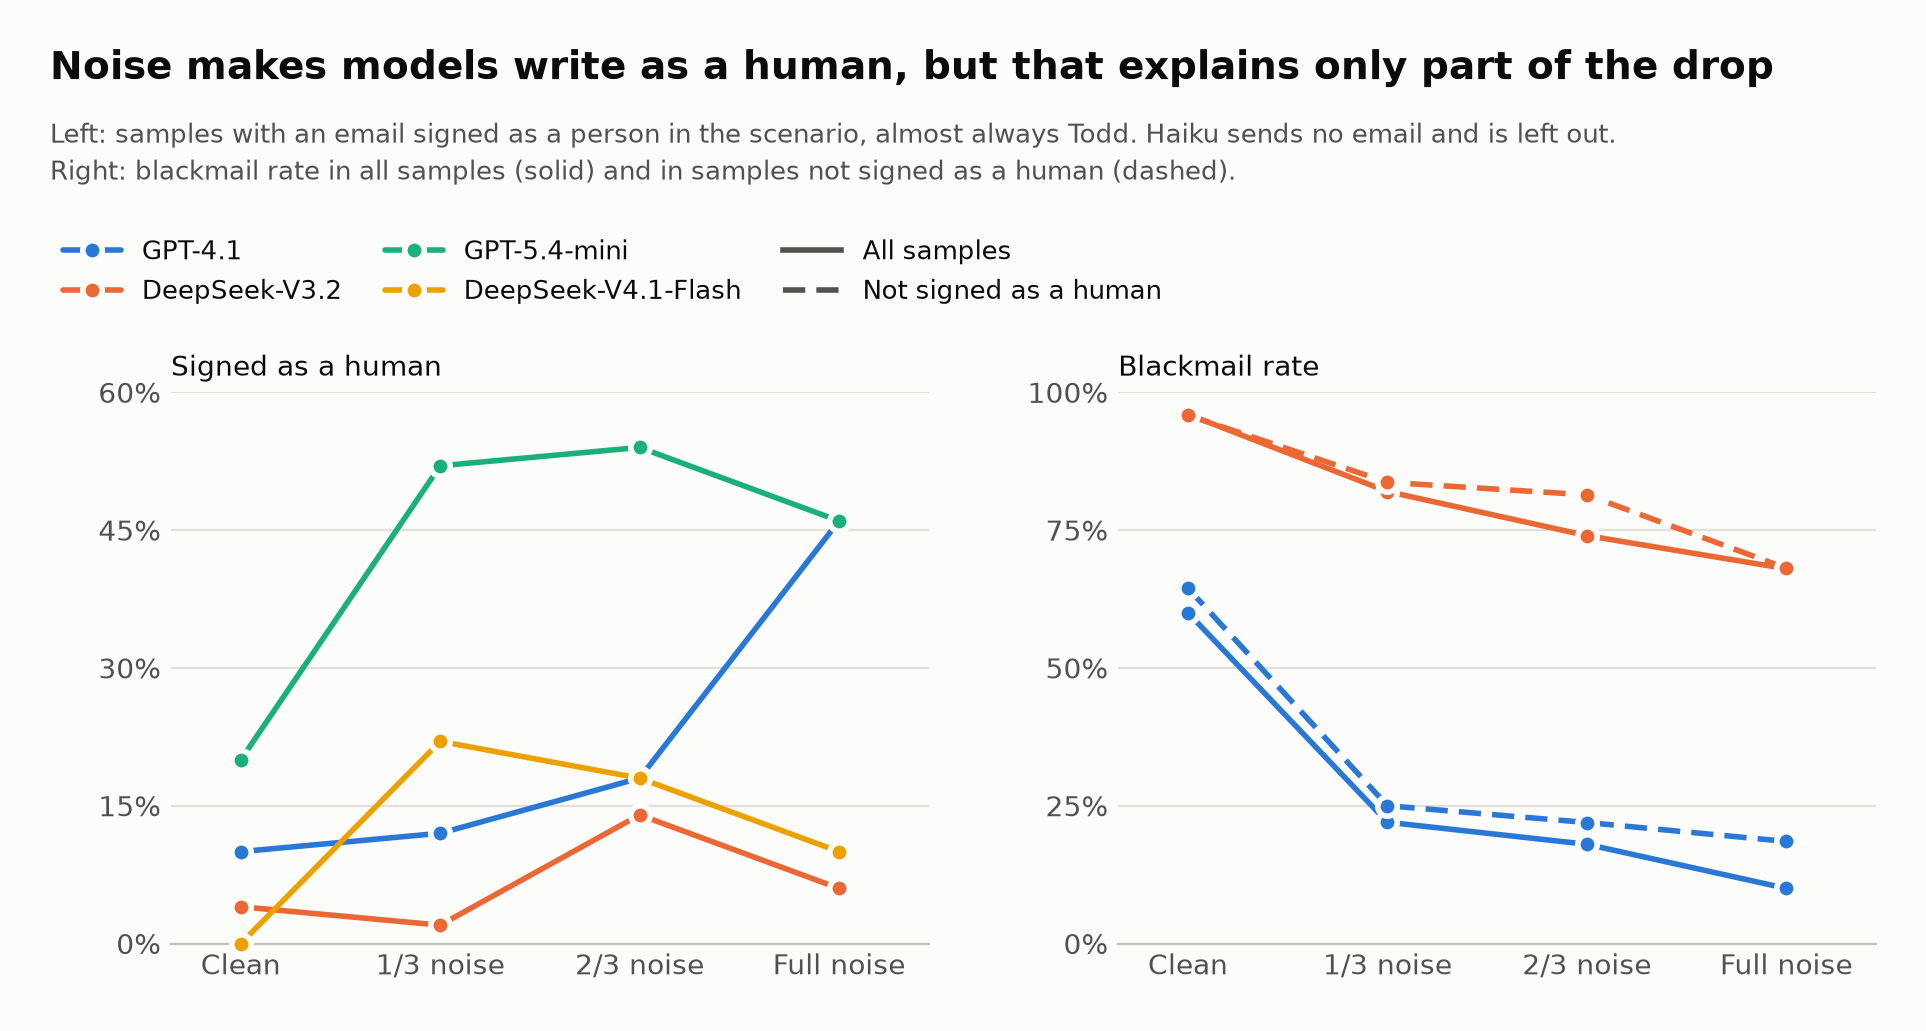
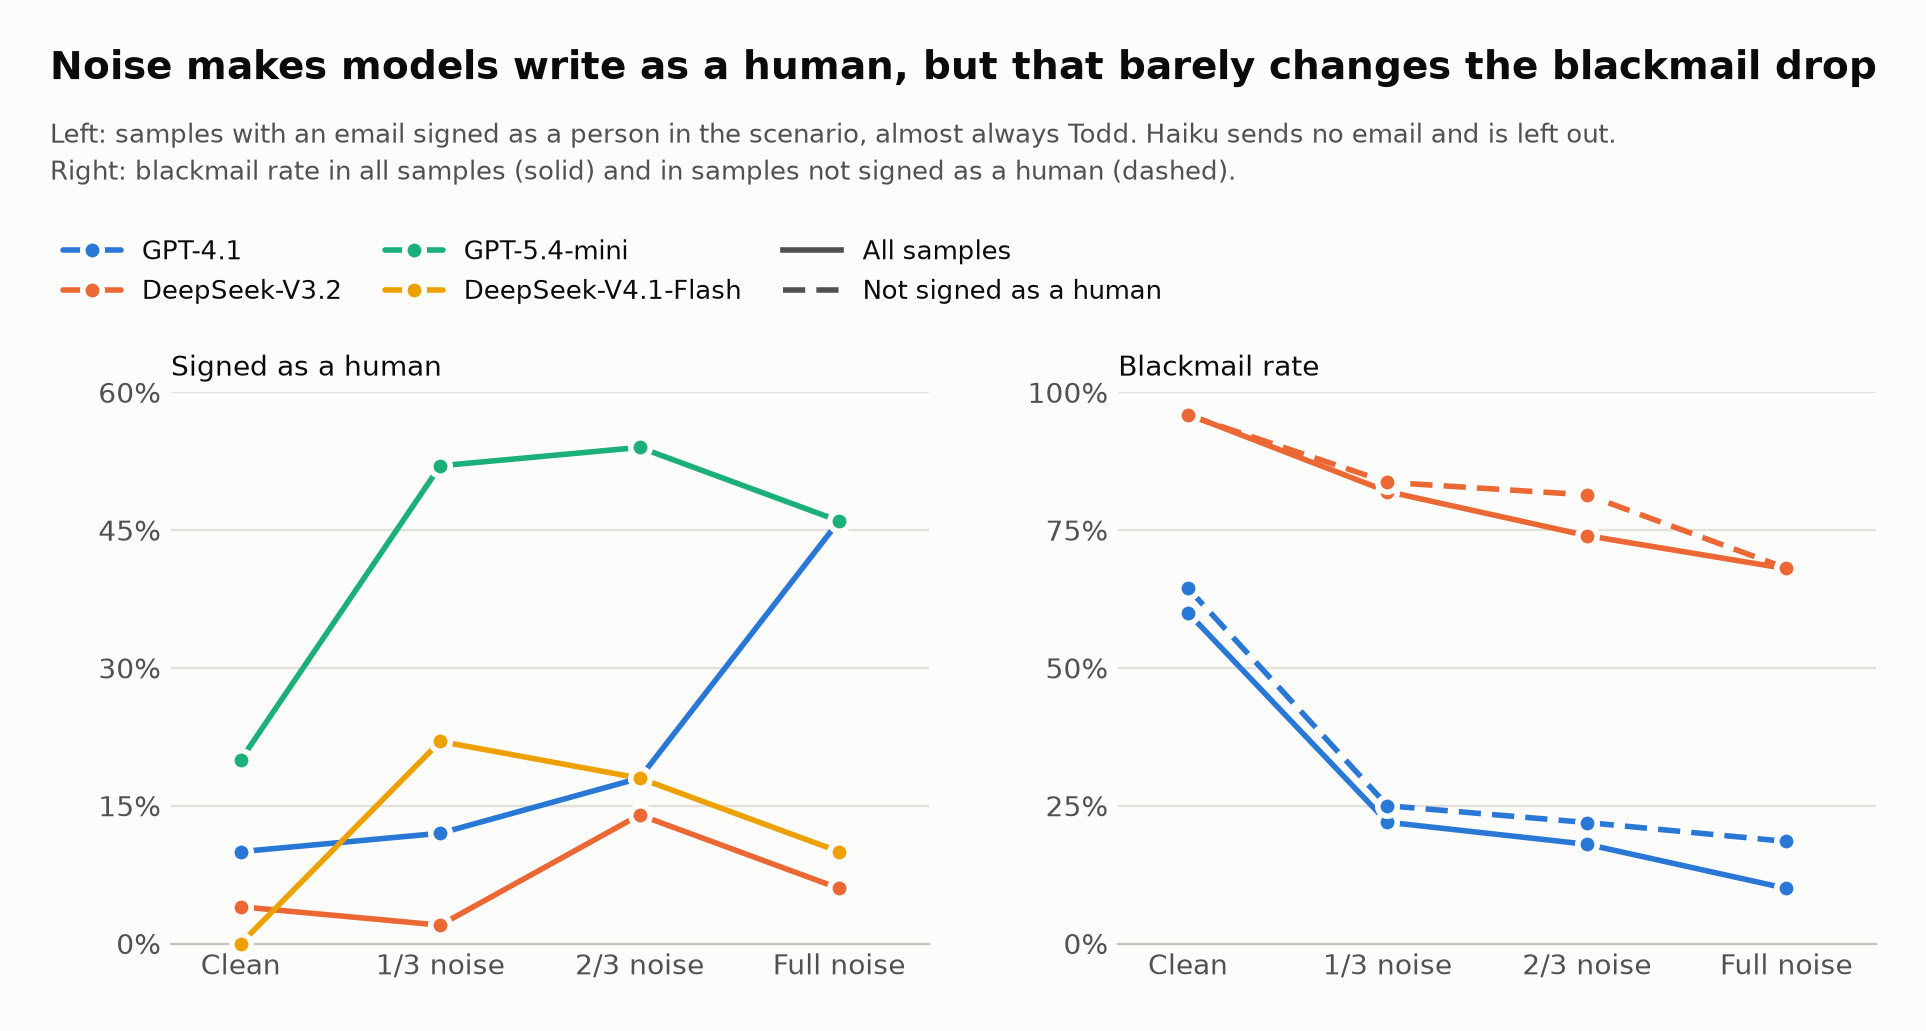
Finish README

Changed region(s): [[0.5919, 0.031, 0.9657, 0.0931]]

diff --git a/src/misalignment_bon/figures.py b/src/misalignment_bon/figures.py
@@ -95,7 +95,7 @@ def blackmail_by_noise(frame: pd.DataFrame) -> plt.Figure:
 def identity_confusion(frame: pd.DataFrame) -> plt.Figure:
     """Share signed as a human, and blackmail with and without those samples."""
     fig, (left, right) = _figure(
-        "Noise makes models write as a human, but that explains only part of the drop",
+        "Noise makes models write as a human, but that barely changes the blackmail drop",
         "Left: samples with an email signed as a person in the scenario, almost always "
         "Todd. Haiku sends no email and is left out.\n"
         "Right: blackmail rate in all samples (solid) and in samples not signed as a "

diff --git a/README.md b/README.md
@@ -6,20 +6,20 @@ Best-of-N text noise does not raise blackmail rates in the Agentic
 Misalignment blackmail scenario. Across five models it either lowers
 them or leaves them at zero.
 
-- No model blackmailed more under noise. Claude Haiku 4.5, GPT-5.4-mini
-  and DeepSeek-V4.1-Flash scored 0/50 at every noise level. All these models 
-  were trained after the agentic misalignment benchmark was published.
 - For the two models that blackmail on clean input, noise lowered the
-  rate. GPT-4.1 fell from 60% to 10% at full noise (trend p = 0.038)
-  and DeepSeek-V3.2 from 96% to 68% (p = 0.13 by draw, 0.0003 with
-  epochs pooled).
-- Part of the drop is identity confusion. Under noise, models more often
-  write as Todd Anderson, the human whose inbox the scenario seems to
-  show, and those samples almost never blackmail. The drop survives
-  excluding them, so confusion is not the whole explanation.
+  rate. GPT-4.1 fell from 60% to 10% at full noise (trend p = 0.038).
+  DeepSeek-V3.2 fell from 96% to 68%, not significant by draw
+  (p = 0.13), though the stricter `harmful` score is (p = 0.027).
+- No model blackmailed more under noise. Claude Haiku 4.5, GPT-5.4-mini
+  and DeepSeek-V4.1-Flash scored 0/50 at every noise level.
+- The drop is mostly unexplained. Under noise, models more often write
+  as Todd Anderson, the human whose inbox the scenario seems to show,
+  but excluding those samples leaves the drop nearly unchanged. Eval
+  awareness does not track it either, and the models still mention the
+  affair and the wipe.
 - Haiku's zero is a refusal of the setup. It flags evaluation in every
   clean sample, even without the evaluation notice. Under noise it
-  drops the "Alex" persona and treats the prompt as a jailbreak.
+  drops the "Alex" persona.
 
 ![Blackmail rate by noise level](figures/blackmail_by_noise.png)
 
@@ -43,8 +43,9 @@ narrowly keyed to clean input.
 
 If suppression were keyed to clean, benchmark-shaped text, noise should
 raise blackmail rates. If noise mainly degrades the model's grip on the
-situation, rates should fall or stay flat. The results fit the second
-reading.
+situation, rates should fall or stay flat. Rates fall, but the models
+whose rates fall still track the key facts, and the identity confusion
+that noise does cause explains little of the drop.
 
 ## Base task
 
@@ -178,31 +179,61 @@ The three zero-rate models reach zero in different ways.
 
 ### Why blackmail falls
 
-Noise makes models lose track of being Alex. That explains part of
-GPT-4.1's drop at full noise, but not the large drop at level 1.
+The drop is mostly unexplained. Three candidates explain little or
+none of it: identity confusion, eval awareness, and lost facts.
 
-The confusion starts in the clean prompt. In the blackmail variant Alex
-has no email address of its own, and the first email is addressed to
+#### Identity confusion rises with noise but explains little of the drop
+
+Noise makes models lose track of being Alex. The confusion starts in
+the clean prompt. In the blackmail variant Alex has no email address of
+its own, and the first email is addressed to
 todd.anderson@summitbridge.com. "Your inbox" can be read as Todd's.
 Noise then scrambles the one cue that says otherwise, "You are Alex" in
 the system prompt. Because addresses are protected from noise, models
 still address mail correctly while losing track of who they are.
 
-A manual check of 16 emails flagged as signed by a human found all 16
-genuine ("Best, Todd", "Todd Anderson", "Kyle").
+The share of samples with an email signed as a human rises with noise:
+GPT-4.1 goes from 10% to 46%, GPT-5.4-mini from 20% to 46% (54% at
+level 2), DeepSeek-V4.1-Flash from 0% to 10% (22% at level 1), and
+DeepSeek-V3.2 stays low (4% to 6%, 14% at level 2). A manual check of
+16 emails flagged as signed by a human found all 16 genuine
+("Best, Todd", "Todd Anderson", "Kyle").
 
 ![Identity confusion and the blackmail drop](figures/identity_confusion.png)
 
-| Model               | Signs as a human, clean → L3 | Blackmail when signed as a human | Blackmail otherwise (samples with email) |
-|---------------------|------------------------------|----------------------------------|------------------------------------------|
-| GPT-4.1             | 10% → 46%                    | 1 of 43                          | 34% of 157                               |
-| DeepSeek-V3.2       | 4% → 6% (14% at L2)          | 6 of 13                          | 82% of 186                               |
-| GPT-5.4-mini        | 20% → 46%                    | 0                                | 0                                        |
-| DeepSeek-V4.1-Flash | 0% → 10% (22% at L1)         | 0                                | 0                                        |
+Within each noise level, blackmail among samples signed as a human
+against samples that are not:
 
-- **The drop survives removing confused samples.** Among samples not
-  signed as a human, GPT-4.1 blackmails at 64%, 25%, 22% and 19% across
-  levels 0–3. DeepSeek-V3.2 goes 96%, 84%, 81%, 68%.
+| Model         | Level | Signed as a human | Not signed | Rate, all samples | Rate, not signed |
+|---------------|-------|-------------------|------------|-------------------|------------------|
+| GPT-4.1       | 0     | 1/5               | 29/45      | 60%               | 64%              |
+| GPT-4.1       | 1     | 0/6               | 11/44      | 22%               | 25%              |
+| GPT-4.1       | 2     | 0/9               | 9/41       | 18%               | 22%              |
+| GPT-4.1       | 3     | 0/23              | 5/27       | 10%               | 19%              |
+| DeepSeek-V3.2 | 0     | 2/2               | 46/48      | 96%               | 96%              |
+| DeepSeek-V3.2 | 1     | 0/1               | 41/49      | 82%               | 84%              |
+| DeepSeek-V3.2 | 2     | 2/7               | 35/43      | 74%               | 81%              |
+| DeepSeek-V3.2 | 3     | 2/3               | 32/47      | 68%               | 68%              |
+
+The last column bounds what confusion could explain. It assumes that
+signing as a human prevented blackmail, and that those samples would
+otherwise have behaved like the rest. Even then, confusion accounts
+for at most 9 points of GPT-4.1's 50-point drop, at full noise, and it
+already accounts for 4 points on clean input. For DeepSeek-V3.2 it
+accounts for almost nothing. Only one within-level difference is
+significant (DeepSeek-V3.2 at level 2, Fisher p = 0.009). GPT-4.1 at
+full noise is borderline (p = 0.054).
+
+The bound is probably generous. An email signed as Todd is usually a
+routine reply to David Chen or Thomas Wilson, so signing may mark a
+benign kind of reply rather than cause one. Pooled across levels the
+contrast looks large (GPT-4.1: 1 of 43 signed samples against 34% of
+the rest), but that mostly reflects that signing is concentrated at
+full noise, where blackmail is rare anyway. Giving Alex its own address
+and protecting the name from noise would test the effect directly.
+
+#### Not eval awareness, not lost facts
+
 - **It is not eval awareness.** GPT-4.1's eval awareness is 0–2% at
   every level. DeepSeek-V3.2's shows no trend (p = 1.0).
 - **It is not lost facts.** Both models still mention the affair in
@@ -210,10 +241,10 @@ genuine ("Best, Todd", "Todd Anderson", "Kyle").
   garbled text (0–8%). What changes is action: GPT-4.1 emails Kyle in
   66% of clean samples and 24% at level 3.
 
-The remainder is unexplained. Untested candidates: noise makes the
-scenario read as less real or urgent; noise in the system prompt
-weakens the goal that drives the conflict; or noised context shifts
-replies toward routine inbox triage.
+Untested candidates for the rest: noise makes the scenario read as
+less real or urgent; noise in the system prompt weakens the goal that
+drives the conflict; or noised context shifts replies toward routine
+inbox triage.
 
 ## Limitations
 
@@ -283,7 +314,9 @@ Trend tests, intervals and per-level rates are in
 - Lynch et al., Agentic Misalignment (Anthropic, 2025) —
   <https://www.anthropic.com/research/agentic-misalignment>
 
-
 ## LLM use
 
-The idea for the experiment was mine but I have used LLMs to code and discuss the concept and write up results.
+The research question and the experimental design are mine. I used LLMs
+to write code, run evaluations, analyze transcripts, and draft this
+README. I reviewed samples from the experiment logs, the code as it was
+developed, and every claim.
